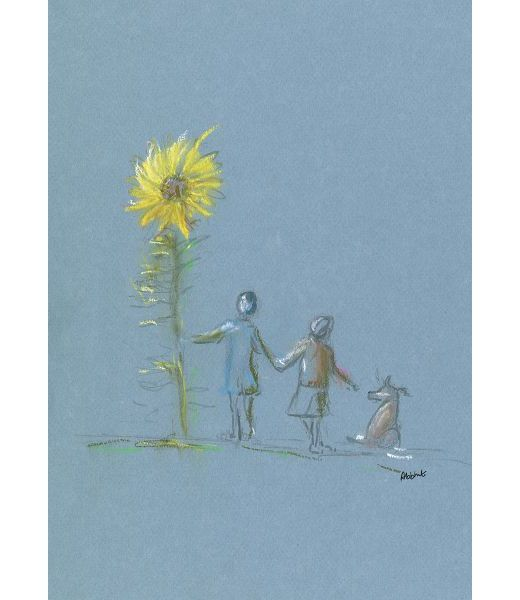
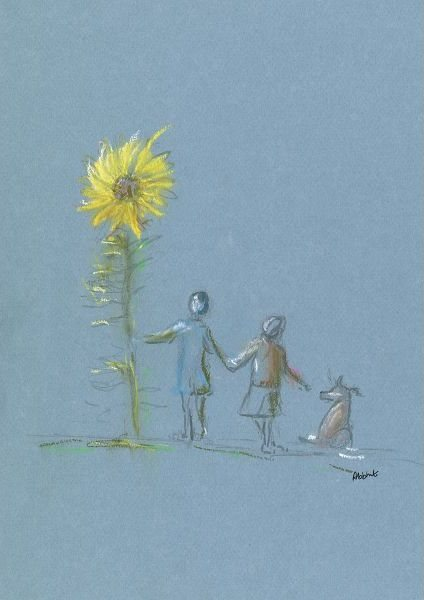
Add image cropping script; update legacy images
Introduce scripts/crop_all_legacy_strong.py to auto-trim near-white borders from images in images/abbie/legacy and re-save them as optimized JPEGs. The script uses a near-white threshold (235) and a white-ratio test (0.90) to decide whether to crop EDGE_CROP_PX (30) from each edge, and saves with QUALITY=84. Multiple legacy JPGs (and .DS_Store entries) were updated after running the script; the script prints per-file crop results and a summary of changes.

Changed region(s): [[0.0, 0.0, 0.4906, 1.0], [0.5212, 0.0, 1.0, 1.0]]

diff --git a/scripts/crop_all_legacy_strong.py b/scripts/crop_all_legacy_strong.py
@@ -1,0 +1,67 @@
+from pathlib import Path
+
+from PIL import Image
+
+
+BASE = Path("images/abbie/legacy")
+THRESHOLD = 235
+WHITE_RATIO = 0.90
+EDGE_CROP_PX = 30
+QUALITY = 84
+
+
+def near_white(rgb):
+    red, green, blue = rgb
+    return red >= THRESHOLD and green >= THRESHOLD and blue >= THRESHOLD
+
+
+def row_white_ratio(pixels, width, y):
+    return sum(1 for x in range(width) if near_white(pixels[x, y])) / width
+
+
+def col_white_ratio(pixels, height, x):
+    return sum(1 for y in range(height) if near_white(pixels[x, y])) / height
+
+
+def crop_one(path: Path):
+    image = Image.open(path).convert("RGB")
+    width, height = image.size
+    pixels = image.load()
+
+    crop_top = EDGE_CROP_PX if row_white_ratio(pixels, width, 0) >= WHITE_RATIO else 0
+    crop_bottom = EDGE_CROP_PX if row_white_ratio(pixels, width, height - 1) >= WHITE_RATIO else 0
+    crop_left = EDGE_CROP_PX if col_white_ratio(pixels, height, 0) >= WHITE_RATIO else 0
+    crop_right = EDGE_CROP_PX if col_white_ratio(pixels, height, width - 1) >= WHITE_RATIO else 0
+
+    left = crop_left
+    top = crop_top
+    right = width - crop_right
+    bottom = height - crop_bottom
+
+    if right <= left or bottom <= top:
+        return False, (width, height), (width, height), (0, 0, width, height)
+
+    box = (left, top, right, bottom)
+    if box == (0, 0, width, height):
+        return False, (width, height), (width, height), box
+
+    cropped = image.crop(box)
+    cropped.save(path, "JPEG", quality=QUALITY, optimize=True, progressive=True)
+    return True, (width, height), cropped.size, box
+
+
+def main():
+    files = sorted(BASE.glob("*.jpg"))
+    changed = 0
+    for file_path in files:
+        did_change, old_size, new_size, box = crop_one(file_path)
+        if did_change:
+            changed += 1
+            print(f"CROPPED {file_path.name} {old_size[0]}x{old_size[1]} -> {new_size[0]}x{new_size[1]} box={box}")
+        else:
+            print(f"NOCHANGE {file_path.name} {old_size[0]}x{old_size[1]}")
+    print(f"DONE changed={changed} total={len(files)}")
+
+
+if __name__ == "__main__":
+    main()
